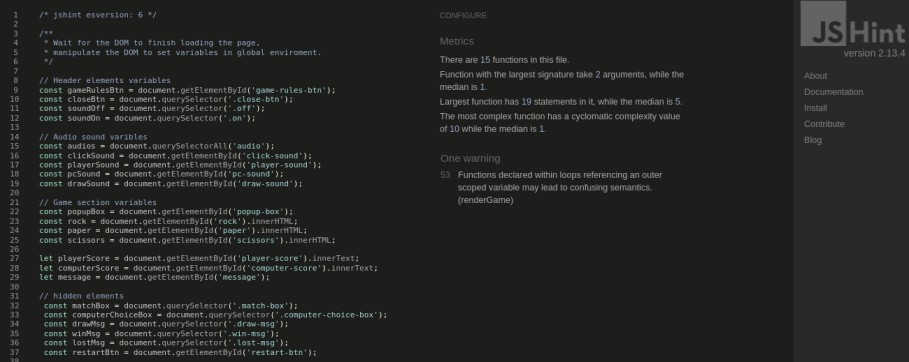
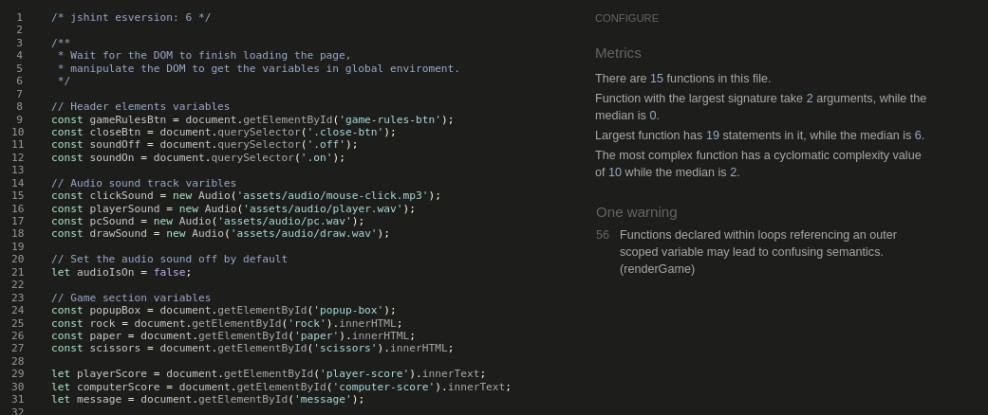
Update the content of JSHint validation in README file.

diff --git a/README.md b/README.md
@@ -164,13 +164,13 @@ The website is created using **mobile-first design approach** and added media qu
     * Metrics:
   
       * ```There are 15 functions in the script file.```
-      * ```Functions with the largest signature take 1 arguments, while the median is 1.```
-      * ```Largest function has 24 statements in it, while the median is 4.```
-      * ```The most complex function has a cyclomatic complexity value of 10 while the median is 1.```
+      * ```Functions with the largest signature take 2 arguments, while the median is 0.```
+      * ```Largest function has 19 statements in it, while the median is 6.```
+      * ```The most complex function has a cyclomatic complexity value of 10 while the median is 2.```
   
     * One warning:
 
-      ```49 Functions declared within loops referencing an outer scoped variable may lead to confusing semantics. (renderGame)```
+      ```56 Functions declared within loops referencing an outer scoped variable may lead to confusing semantics. (renderGame)```
 
       This warning is caused by the function declared within the **for loop** at line **49** in the script.js file. The function fires on the click event that loop through each of the elements that has a **class** attribute with the value of **choice**.
 
